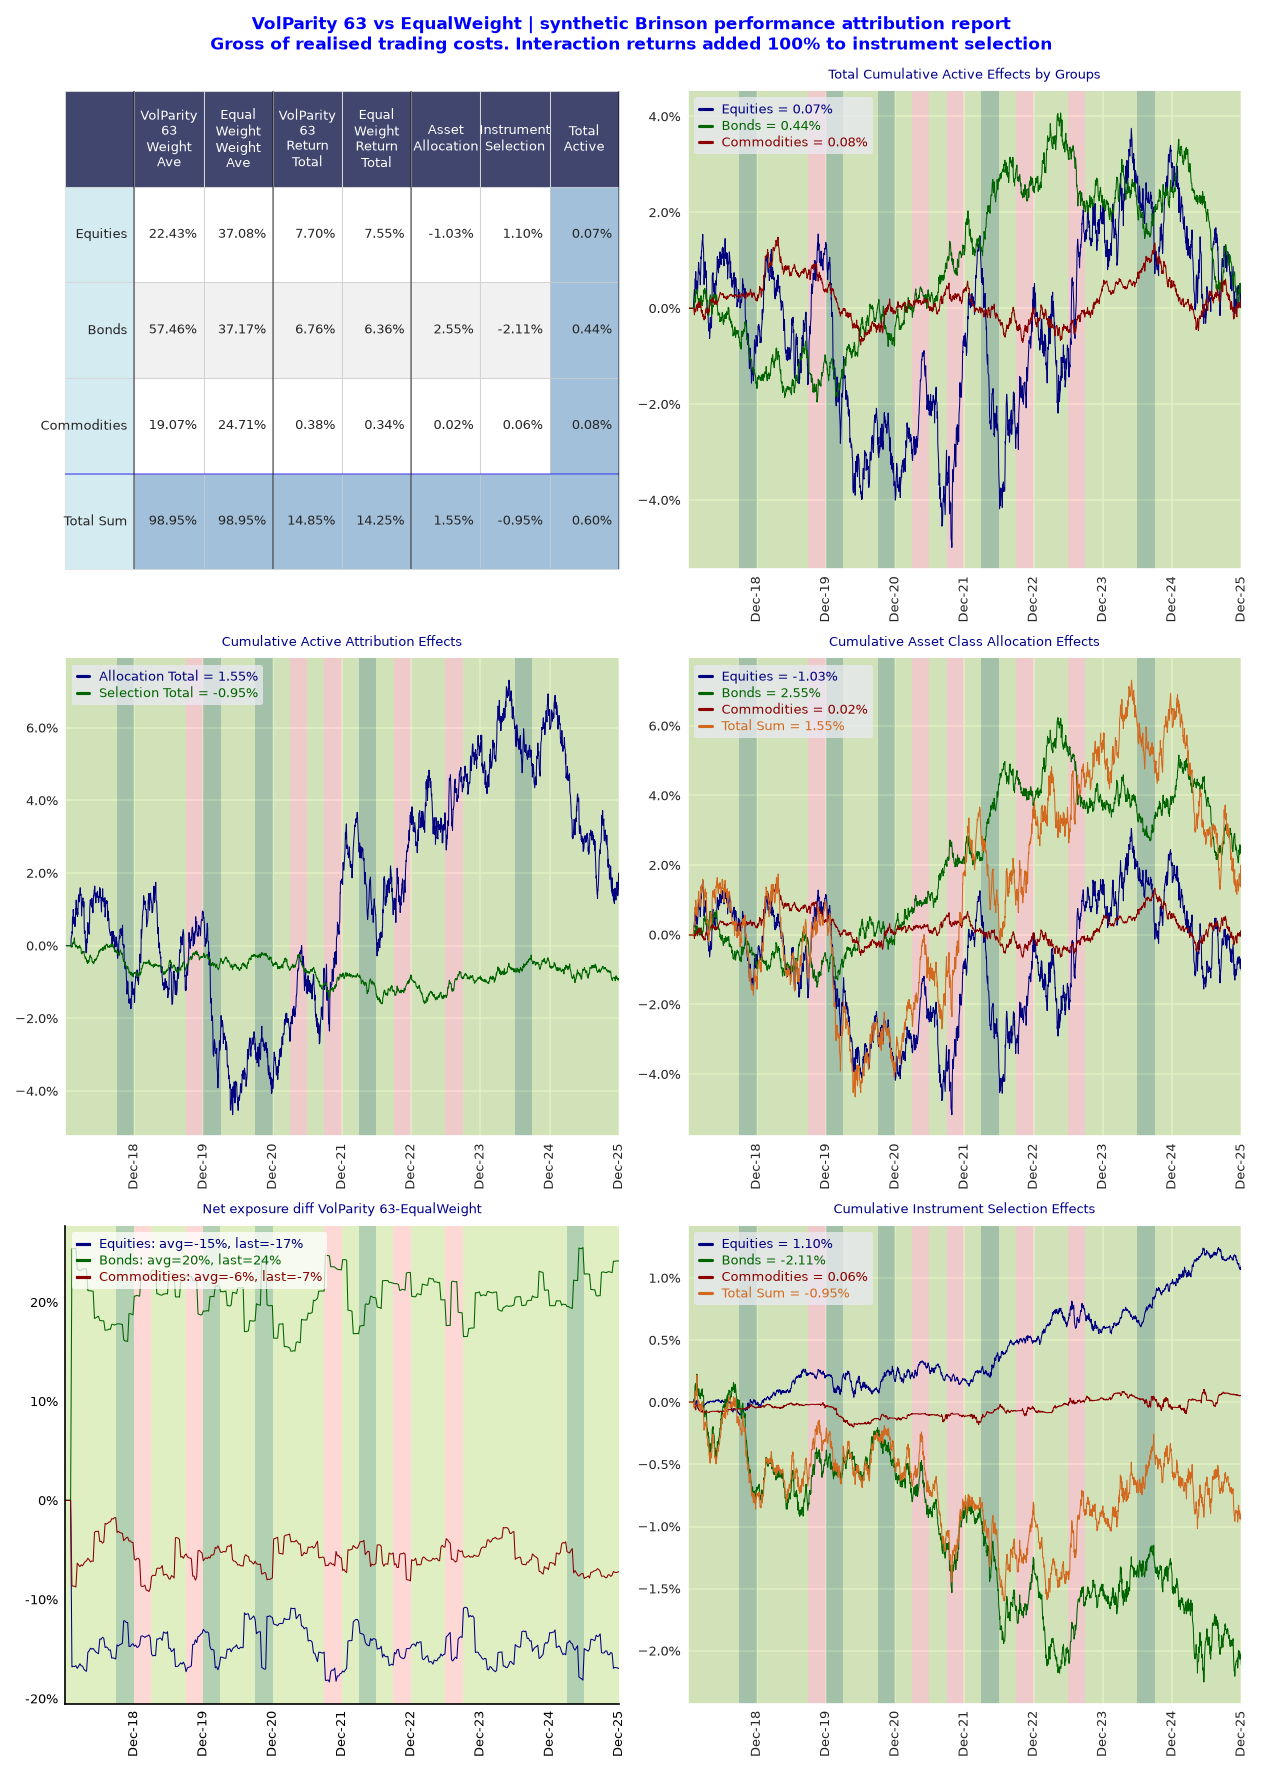
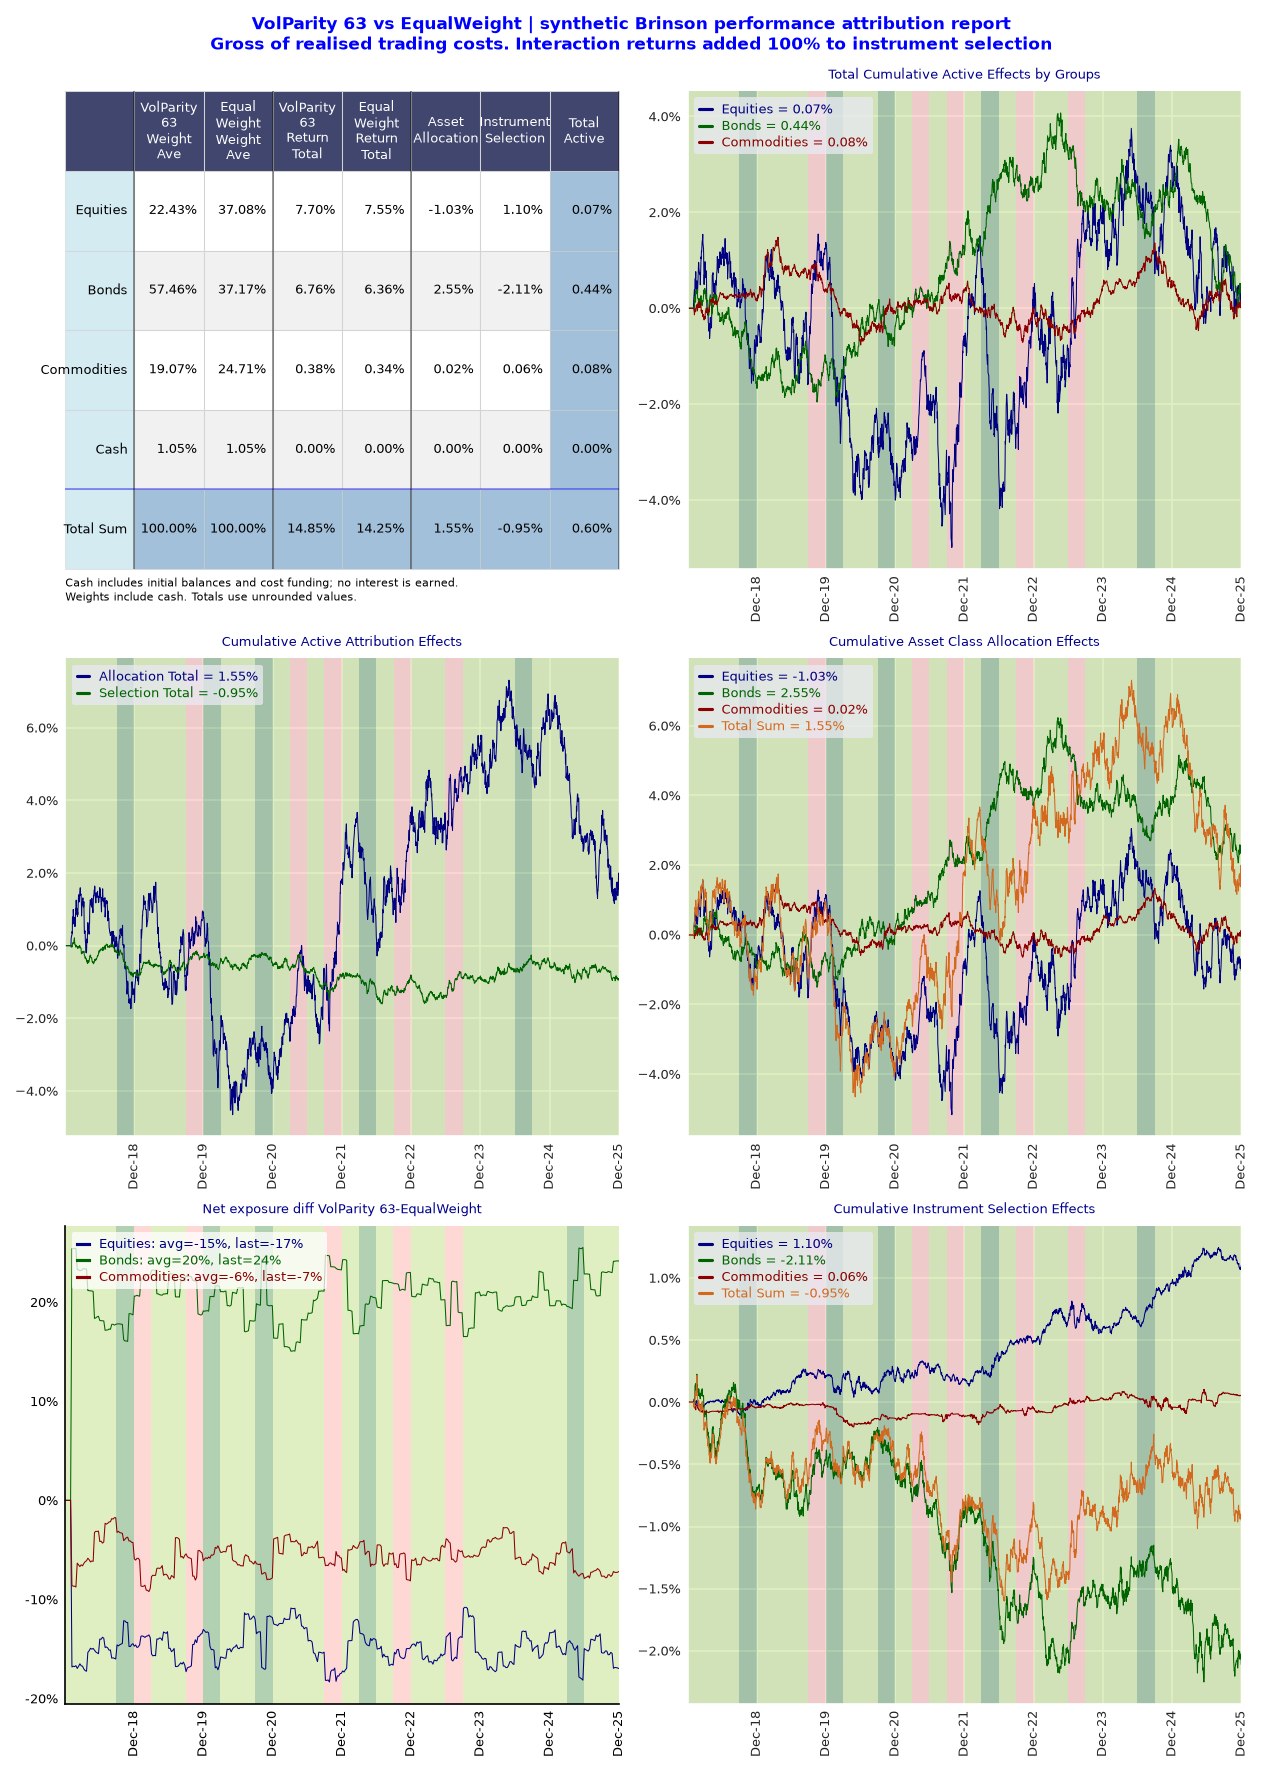
Include cash row in Brinson README attribution
Updated the README and generated Brinson analytics to show residual cash in displayed average weights, including initial cash and cost funding, while keeping the underlying attribution results unchanged. The readme generator now reconciles the cash-adjusted totals, saves the cash-weight tables in the manifest, and refreshes the PNG/docs metadata to match the revised presentation.

diff --git a/tools/docs_analytics/readme.py b/tools/docs_analytics/readme.py
@@ -100,6 +100,31 @@ def produce(spec: dict) -> dict:
     assert not any('Interaction' in column for column in totals.columns)
     assert list(active.columns) == ['Allocation Total', 'Selection Total']
 
+    # Complete the displayed weight accounting with independently marked residual cash.
+    cash_weights = {}
+    cash_row = pd.Series(0.0, index=totals.columns, name='Cash')
+    for portfolio in pair.portfolio_datas:
+        _, applied_weights = portfolio.get_brinson_inputs(freq=None, is_net=False)
+        applied_weights = applied_weights.loc[
+            (applied_weights.index > navs.index[0]) & (applied_weights.index <= navs.index[-1])]
+        marked_holdings = (portfolio.units * portfolio.prices).sum(axis=1)
+        residual_cash = ((portfolio.nav - marked_holdings) / portfolio.nav).shift(1)
+        residual_cash = residual_cash.reindex(applied_weights.index)
+        np.testing.assert_allclose(
+            applied_weights.sum(axis=1) + residual_cash, 1.0, atol=1e-12, rtol=0)
+        column = f'{portfolio.ticker}\nWeight Ave'
+        cash_weights[column] = residual_cash
+        cash_row[column] = residual_cash.mean()
+    cash_weights = pd.DataFrame(cash_weights)
+    display_totals = pd.concat([totals.iloc[:-1], cash_row.to_frame().T, totals.iloc[-1:]])
+    for column in cash_weights:
+        display_totals.loc['Total Sum', column] += cash_row[column]
+        np.testing.assert_allclose(display_totals.loc['Total Sum', column], 1.0,
+                                   atol=1e-12, rtol=0)
+    # No cash interest/funding rate is supplied in this example; gross cash effects are zero.
+    np.testing.assert_array_equal(display_totals.loc[totals.index, totals.columns[2:]],
+                                  totals.iloc[:, 2:])
+
     common = dict(time_period=period, reporting_frequency=params['reporting_frequency'],
                   add_rates_data=False,
                   benchmark_prices=prices[['SEQ_US']], fontsize=6)
@@ -156,6 +181,14 @@ def produce(spec: dict) -> dict:
             assert not legend.get_window_extent(renderer).overlaps(
                 figure.texts[-1].get_window_extent(renderer))
     focus_risk(figures['readme_strategy_risk.png'])
+    # Re-render only the summary table with cash; all existing attribution curves stay intact.
+    table_ax = brinson.axes[0]
+    table_ax.clear()
+    qis.plot_brinson_totals_table(display_totals, var_format='{:.2%}', ax=table_ax, fontsize=6)
+    table_ax.text(0, -0.015,
+                  'Cash includes initial balances and cost funding; no interest is earned.\n'
+                  'Weights include cash. Totals use unrounded values.',
+                  transform=table_ax.transAxes, va='top', fontsize=5.5)
     # Wrap current table headings and show small active effects without rounding to zero.
     table = brinson.axes[0].tables[0]
     for (row, column), cell in table.get_celld().items():
@@ -168,7 +201,7 @@ def produce(spec: dict) -> dict:
                 text = text.replace(before, after)
             cell.get_text().set_text(text)
         elif column > 0:
-            cell.get_text().set_text(f'{totals.iloc[row - 1, column - 1]:.2%}')
+            cell.get_text().set_text(f'{display_totals.iloc[row - 1, column - 1]:.2%}')
     for ax in effect_axes:
         ax.yaxis.set_major_formatter(PercentFormatter(1.0, decimals=1))
         for label, line in zip(ax.get_legend().get_texts(), ax.lines):
@@ -203,19 +236,24 @@ def produce(spec: dict) -> dict:
         'tables': {'prices': prices, 'portfolio_navs': navs, 'performance': performance,
                    'strategy_target_weights': schedules[strategy.ticker],
                    'strategy_costs': costs, 'brinson_totals': totals, 'brinson_active': active,
+                   'brinson_display_totals': display_totals, 'brinson_cash_weights': cash_weights,
                    'brinson_allocation': allocation, 'brinson_selection': selection},
         'checks': {'target_weights_sum_to_one': True, 'zero_cost_nav_reconciles_units': True,
                    'linked_attribution_matches_compounded_returns': True,
                    'interaction_folded_into_selection': True,
                    'brinson_regime_shading_present': True,
-                   'brinson_plotted_effects_match_tables': True},
+                   'brinson_plotted_effects_match_tables': True,
+                   'brinson_weights_including_cash_reconcile': True,
+                   'brinson_cash_display_preserves_attribution': True},
         'parameters': params,
         'presentation': 'Selected current report panels; Brinson table wraps headings and uses '
-                        'two-decimal percentages; positions compose PortfolioData plots',
+                        'two-decimal percentages and includes residual cash in weights; '
+                        'positions compose PortfolioData plots',
         'summary': {'sample_start': str(prices.index[0].date()),
                     'sample_end': str(prices.index[-1].date()),
                     'zero_cost_units_valuation_max_error': valuation_error,
                     'gross_linked_active_return': float(reference_active[-1]),
+                    'average_cash_weights': cash_weights.mean().to_dict(),
                     'linked_attribution_max_error': float(
                         np.max(np.abs(linked_active - reference_active))),
                     'brinson_effect_axes_with_regime_shading': len(effect_axes)},

diff --git a/tools/docs_analytics/README.md b/tools/docs_analytics/README.md
@@ -77,6 +77,10 @@ The standalone performance table uses a constant 3% annual cash rate, monthly ri
 and quarterly regression. Four main reports use the gallery's focused layout; the risk appendix
 shows six existing panels, preserving their data. The positions page composes current
 `PortfolioData` plots. Brinson table headings wrap and percentages use two decimal places.
+The displayed weight totals include residual cash, independently marked as NAV less holdings
+and lagged to each return period. The Cash row includes initial uninvested balances and cost
+funding; no cash interest is supplied. Its gross attribution effects are zero. Native cash weights
+and the displayed totals are saved alongside the unchanged instrument-only attribution tables.
 Brinson uses native-date BHB effects and Frongello linking, gross of realised costs, with
 interaction assigned to selection and benchmark-regime background colours. Independent
 compounded-return and held-unit references check the linked attribution and backtest, and

diff --git a/README.md b/README.md
@@ -416,6 +416,8 @@ Run [`examples/factsheets/strategy_benchmark.py`](examples/factsheets/strategy_b
 linked with Frongello's method. Interaction is folded entirely into selection, with no separate
 interaction panel. Background colours show benchmark return regimes. This attribution is gross
 of realised trading costs; the comparison NAVs above are net of those costs.
+Average weights include a Cash row for the initial uninvested period and subsequent cost
+funding, so the unrounded weights sum to 100%. Cash earns no interest in this example.
 
 ![Current Brinson allocation and selection effects with benchmark-regime background colours](docs/images/readme_brinson.png)
 
